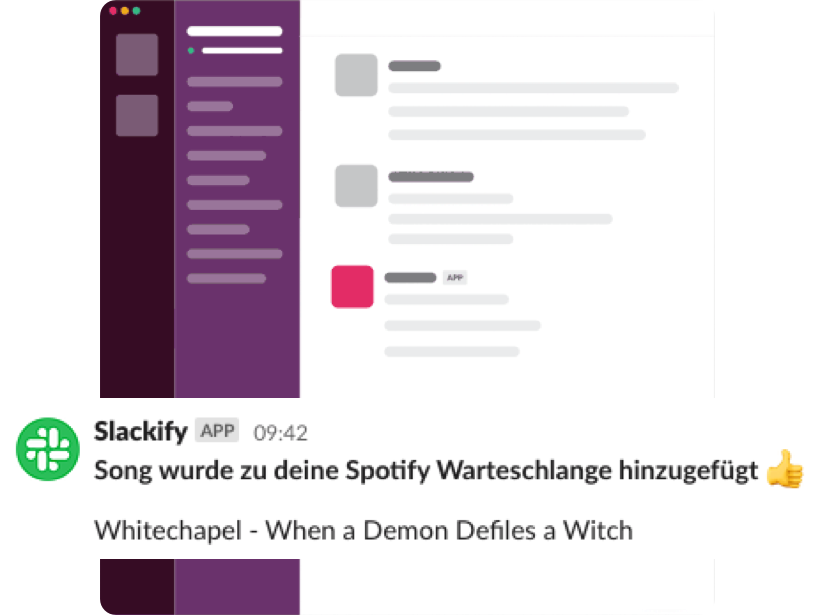
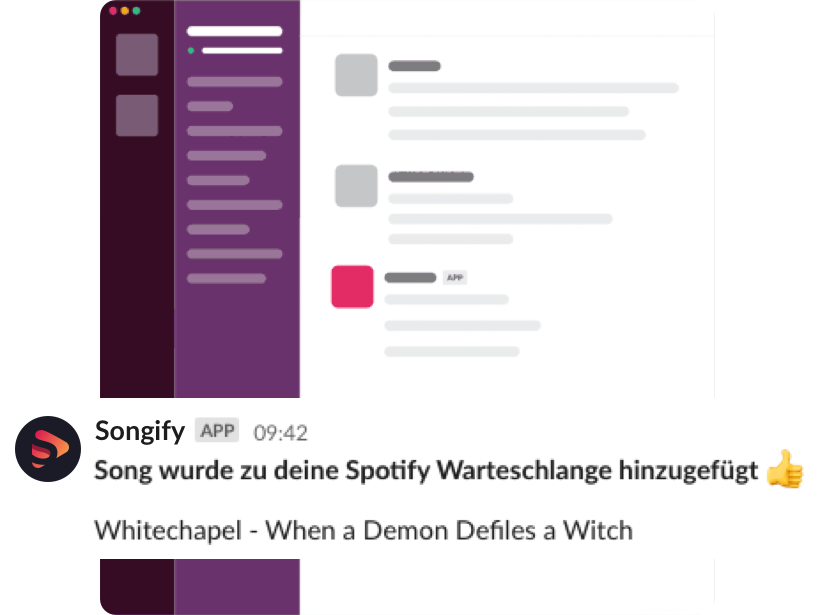
rename to songify, thx slack

Changed region(s): [[0.0, 0.6797, 0.2424, 0.8033]]

diff --git a/index.html b/index.html
@@ -2,7 +2,7 @@
   <html lang="en" dir="ltr">
     <head>
       <meta charset="utf-8">
-      <title>Slackify | Show your Spotify song in your Slack status</title>
+      <title>Songify | Show your Spotify song in your Slack status</title>
 
       <link rel="stylesheet" href="https://cdn.jsdelivr.net/npm/bulma@0.9.0/css/bulma.min.css">
       <link rel="stylesheet" href="/font.css">
@@ -30,36 +30,36 @@
       <meta http-equiv="x-ua-compatible" content="ie=edge">
       <meta http-equiv="Content-Type" content="text/html; charset=utf-8">
 
-      <meta name="description" content="Slackify automaticly updates your Slack status with the current Song you're listening to on Spotify.">
+      <meta name="description" content="Songify automaticly updates your Slack status with the current Song you're listening to on Spotify.">
 
       <meta name="twitter:card" content="summary">
-      <meta name="twitter:url" content="https://slackify.dev/">
-      <meta name="twitter:title" content="Slackify | Show your Spotify song in your Slack status">
-      <meta name="twitter:description" content="Slackify automaticly updates your Slack status with the current Song you're listening to on Spotify.">
-      <meta name="twitter:image" content="https://slackify.dev/favicon-256x256.png">
+      <meta name="twitter:url" content="https://songify.io/">
+      <meta name="twitter:title" content="Songify | Show your Spotify song in your Slack status">
+      <meta name="twitter:description" content="Songify automaticly updates your Slack status with the current Song you're listening to on Spotify.">
+      <meta name="twitter:image" content="https://songify.io/favicon-256x256.png">
 
-      <meta property="og:site_name" content="https://slackify.dev/">
+      <meta property="og:site_name" content="https://songify.io/">
       <meta property="og:type" content="website">
       <meta property="og:determiner" content="a">
 
-      <meta property="og:title" content="Slackify | Show your Spotify song in your Slack status">
-      <meta property="og:description" content="Slackify automaticly updates your Slack status with the current Song you're listening to on Spotify.">
-      <meta property="og:image" content="https://slackify.dev/favicon-256x256.png">
+      <meta property="og:title" content="Songify | Show your Spotify song in your Slack status">
+      <meta property="og:description" content="Songify automaticly updates your Slack status with the current Song you're listening to on Spotify.">
+      <meta property="og:image" content="https://songify.io/favicon-256x256.png">
 
       <meta name="viewport" content="width=device-width, initial-scale=1">
 
-      <link rel="canonical" href="https://slackify.dev/">
+      <link rel="canonical" href="https://songify.io/">
     </head>
     <body>
       <section class="hero hero-logo is-fullheight">
         <div class="hero-body">
           <a href="/connect" class="c2a-button-hero">
-            Get Slackify
+            Get Songify
           </a>
           <div class="container has-text-centered">
             <div class="columns">
               <div class="column">
-                <img src="logo.svg" alt="Slackify">
+                <img src="logo.svg" alt="Songify">
                 <h3 class="title is-4 has-text-white">Show your Spotify song in your Slack status</h3>
               </div>
             </div>
@@ -95,7 +95,7 @@
                     <h3 class="title is-4 is-bold">
                       Update your Slack Status.
                     </h3>
-                    <p>Slackify automaticly updates your Slack<br>status with the current Song you're<br>listening to on Spotify.</p>
+                    <p>Songify automaticly updates your Slack<br>status with the current Song you're<br>listening to on Spotify.</p>
                   </div>
                 </div>
                 <div class="columns is-vcentered">
@@ -113,7 +113,7 @@
                 </div>
                 <div class="columns">
                   <div class="column">
-                    <a class="button is-slackify is-medium" href="/connect">Get Slackify now</a>
+                    <a class="button is-slackify is-medium" href="/connect">Get Songify now</a>
                   </div>
                 </div>
               </div>
@@ -152,7 +152,7 @@
                   pause
                 </div>
                 <div class="column has-text-grey-lighter has-text-weight-light has-text-left">
-                  Pause Slackify if you don't want to share your music right now.
+                  Pause Songify if you don't want to share your music right now.
                 </div>
               </div>
               <div class="columns">
@@ -160,7 +160,7 @@
                   unpause | resume
                 </div>
                 <div class="column has-text-grey-lighter has-text-weight-light has-text-left">
-                  Resume Slackify and start sharing your music again, yeah!
+                  Resume Songify and start sharing your music again, yeah!
                 </div>
               </div>
             </div>
@@ -176,7 +176,7 @@
           </div>
           <div class="columns">
             <div class="column">
-              <a class="button is-slackify is-medium" href="/connect">Get Slackify now</a>
+              <a class="button is-slackify is-medium" href="/connect">Get Songify now</a>
             </div>
           </div>
         </div>
@@ -187,9 +187,9 @@
             <div class="columns">
               <div class="column is-4">
                 <figure class="image is-48x48">
-                  <img src="logo.svg" alt="Slackify">
+                  <img src="logo.svg" alt="Songify">
                 </figure>
-                <span class="has-text-white">Slackify</span>
+                <span class="has-text-white">Songify</span>
               </div>
               <div class="column is-4">
                 <div class="columns">

diff --git a/privacy.html b/privacy.html
@@ -2,7 +2,7 @@
 <html lang="en" dir="ltr">
   <head>
     <meta charset="utf-8">
-    <title>Slackify | Show your Spotify song in your Slack status</title>
+    <title>Songify | Show your Spotify song in your Slack status</title>
 
     <link rel="stylesheet" href="https://cdn.jsdelivr.net/npm/bulma@0.9.0/css/bulma.min.css">
     <link rel="stylesheet" href="/font.css">
@@ -30,37 +30,37 @@
     <meta http-equiv="x-ua-compatible" content="ie=edge">
     <meta http-equiv="Content-Type" content="text/html; charset=utf-8">
 
-    <meta name="description" content="Slackify automaticly updates your Slack status with the current Song you're listening to on Spotify.">
+    <meta name="description" content="Songify automaticly updates your Slack status with the current Song you're listening to on Spotify.">
 
     <meta name="twitter:card" content="summary">
-    <meta name="twitter:url" content="https://slackify.dev/">
-    <meta name="twitter:title" content="Slackify | Show your Spotify song in your Slack status">
-    <meta name="twitter:description" content="Slackify automaticly updates your Slack status with the current Song you're listening to on Spotify.">
-    <meta name="twitter:image" content="https://slackify.dev/favicon-256x256.png">
+    <meta name="twitter:url" content="https://songify.io/">
+    <meta name="twitter:title" content="Songify | Show your Spotify song in your Slack status">
+    <meta name="twitter:description" content="Songify automaticly updates your Slack status with the current Song you're listening to on Spotify.">
+    <meta name="twitter:image" content="https://songify.io/favicon-256x256.png">
 
-    <meta property="og:site_name" content="https://slackify.dev/">
+    <meta property="og:site_name" content="https://songify.io/">
     <meta property="og:type" content="website">
     <meta property="og:determiner" content="a">
 
-    <meta property="og:title" content="Slackify | Show your Spotify song in your Slack status">
-    <meta property="og:description" content="Slackify automaticly updates your Slack status with the current Song you're listening to on Spotify.">
-    <meta property="og:image" content="https://slackify.dev/favicon-256x256.png">
+    <meta property="og:title" content="Songify | Show your Spotify song in your Slack status">
+    <meta property="og:description" content="Songify automaticly updates your Slack status with the current Song you're listening to on Spotify.">
+    <meta property="og:image" content="https://songify.io/favicon-256x256.png">
 
     <meta name="viewport" content="width=device-width, initial-scale=1">
 
-    <link rel="canonical" href="https://slackify.dev/">
+    <link rel="canonical" href="https://songify.io/">
   </head>
   <body>
     <section class="hero hero-logo is-fullheight">
       <div class="hero-body">
         <a href="/connect" class="c2a-button-hero">
-          Get Slackify
+          Get Songify
         </a>
         <div class="container has-text-centered">
           <div class="columns">
             <div class="column">
               <a href="/">
-                <img src="logo.svg" alt="Slackify">
+                <img src="logo.svg" alt="Songify">
               </a>
               <h3 class="title is-4 has-text-white">Your private stuff is kept private</h3>
               <h5 class="subtitle is-5 has-text-white">We do not store anything except for your slack user id, access tokens and refresh tokens for slack and spotify!<br>
@@ -79,7 +79,7 @@
         </div>
         <div class="columns">
           <div class="column">
-            <a class="button is-slackify is-medium" href="/connect">Get Slackify now</a>
+            <a class="button is-slackify is-medium" href="/connect">Get Songify now</a>
           </div>
         </div>
       </div>
@@ -91,10 +91,10 @@
             <div class="column is-4">
               <figure class="image is-48x48">
                 <a href="/">
-                  <img src="logo.svg" alt="Slackify">
+                  <img src="logo.svg" alt="Songify">
                 </a>
               </figure>
-              <span class="has-text-white">Slackify</span>
+              <span class="has-text-white">Songify</span>
             </div>
             <div class="column is-4">
               <div class="columns">
